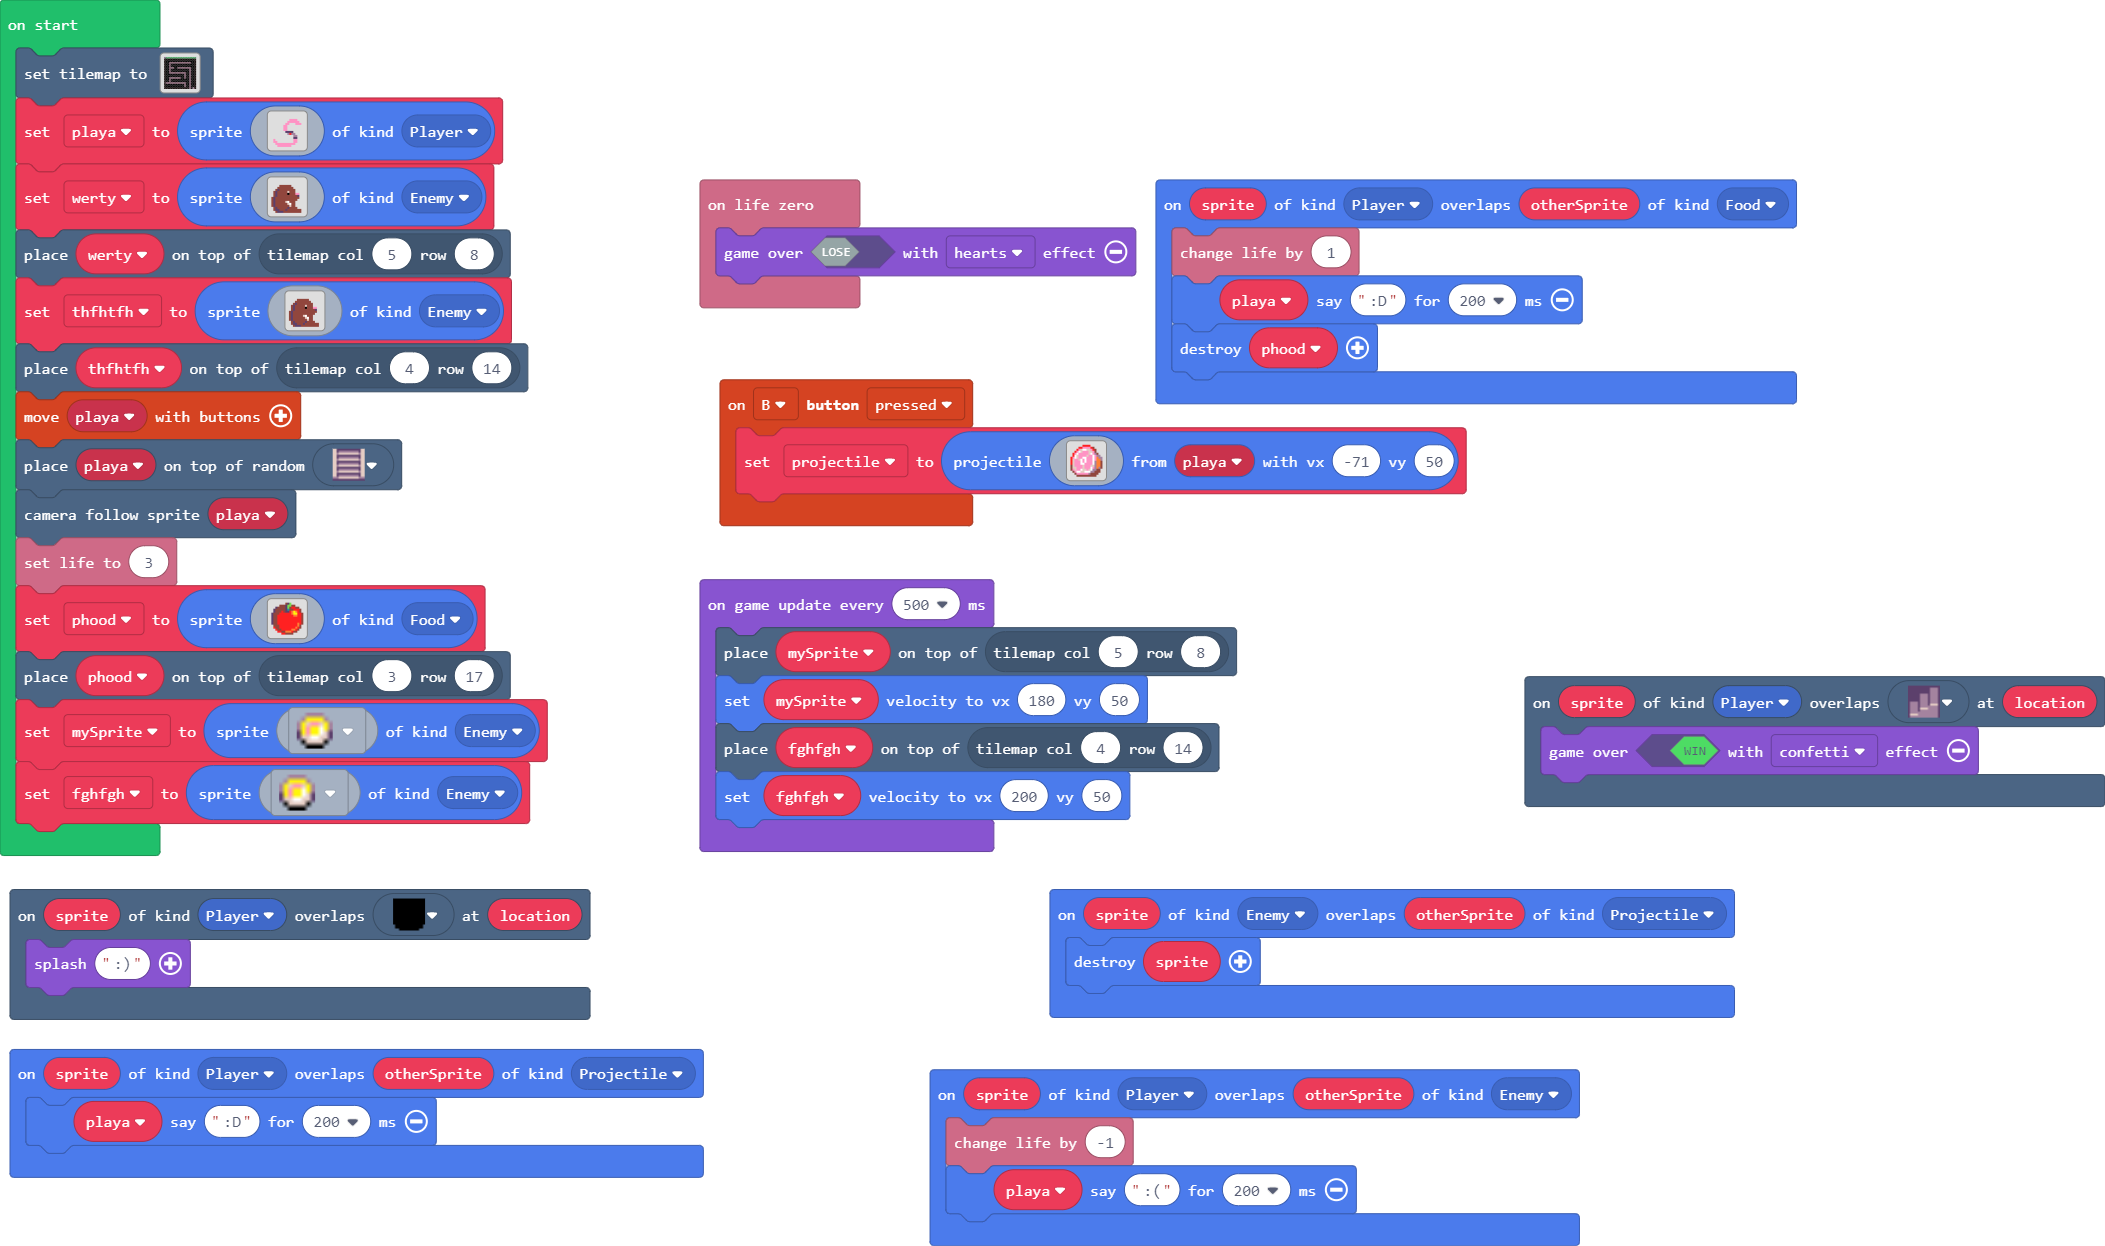
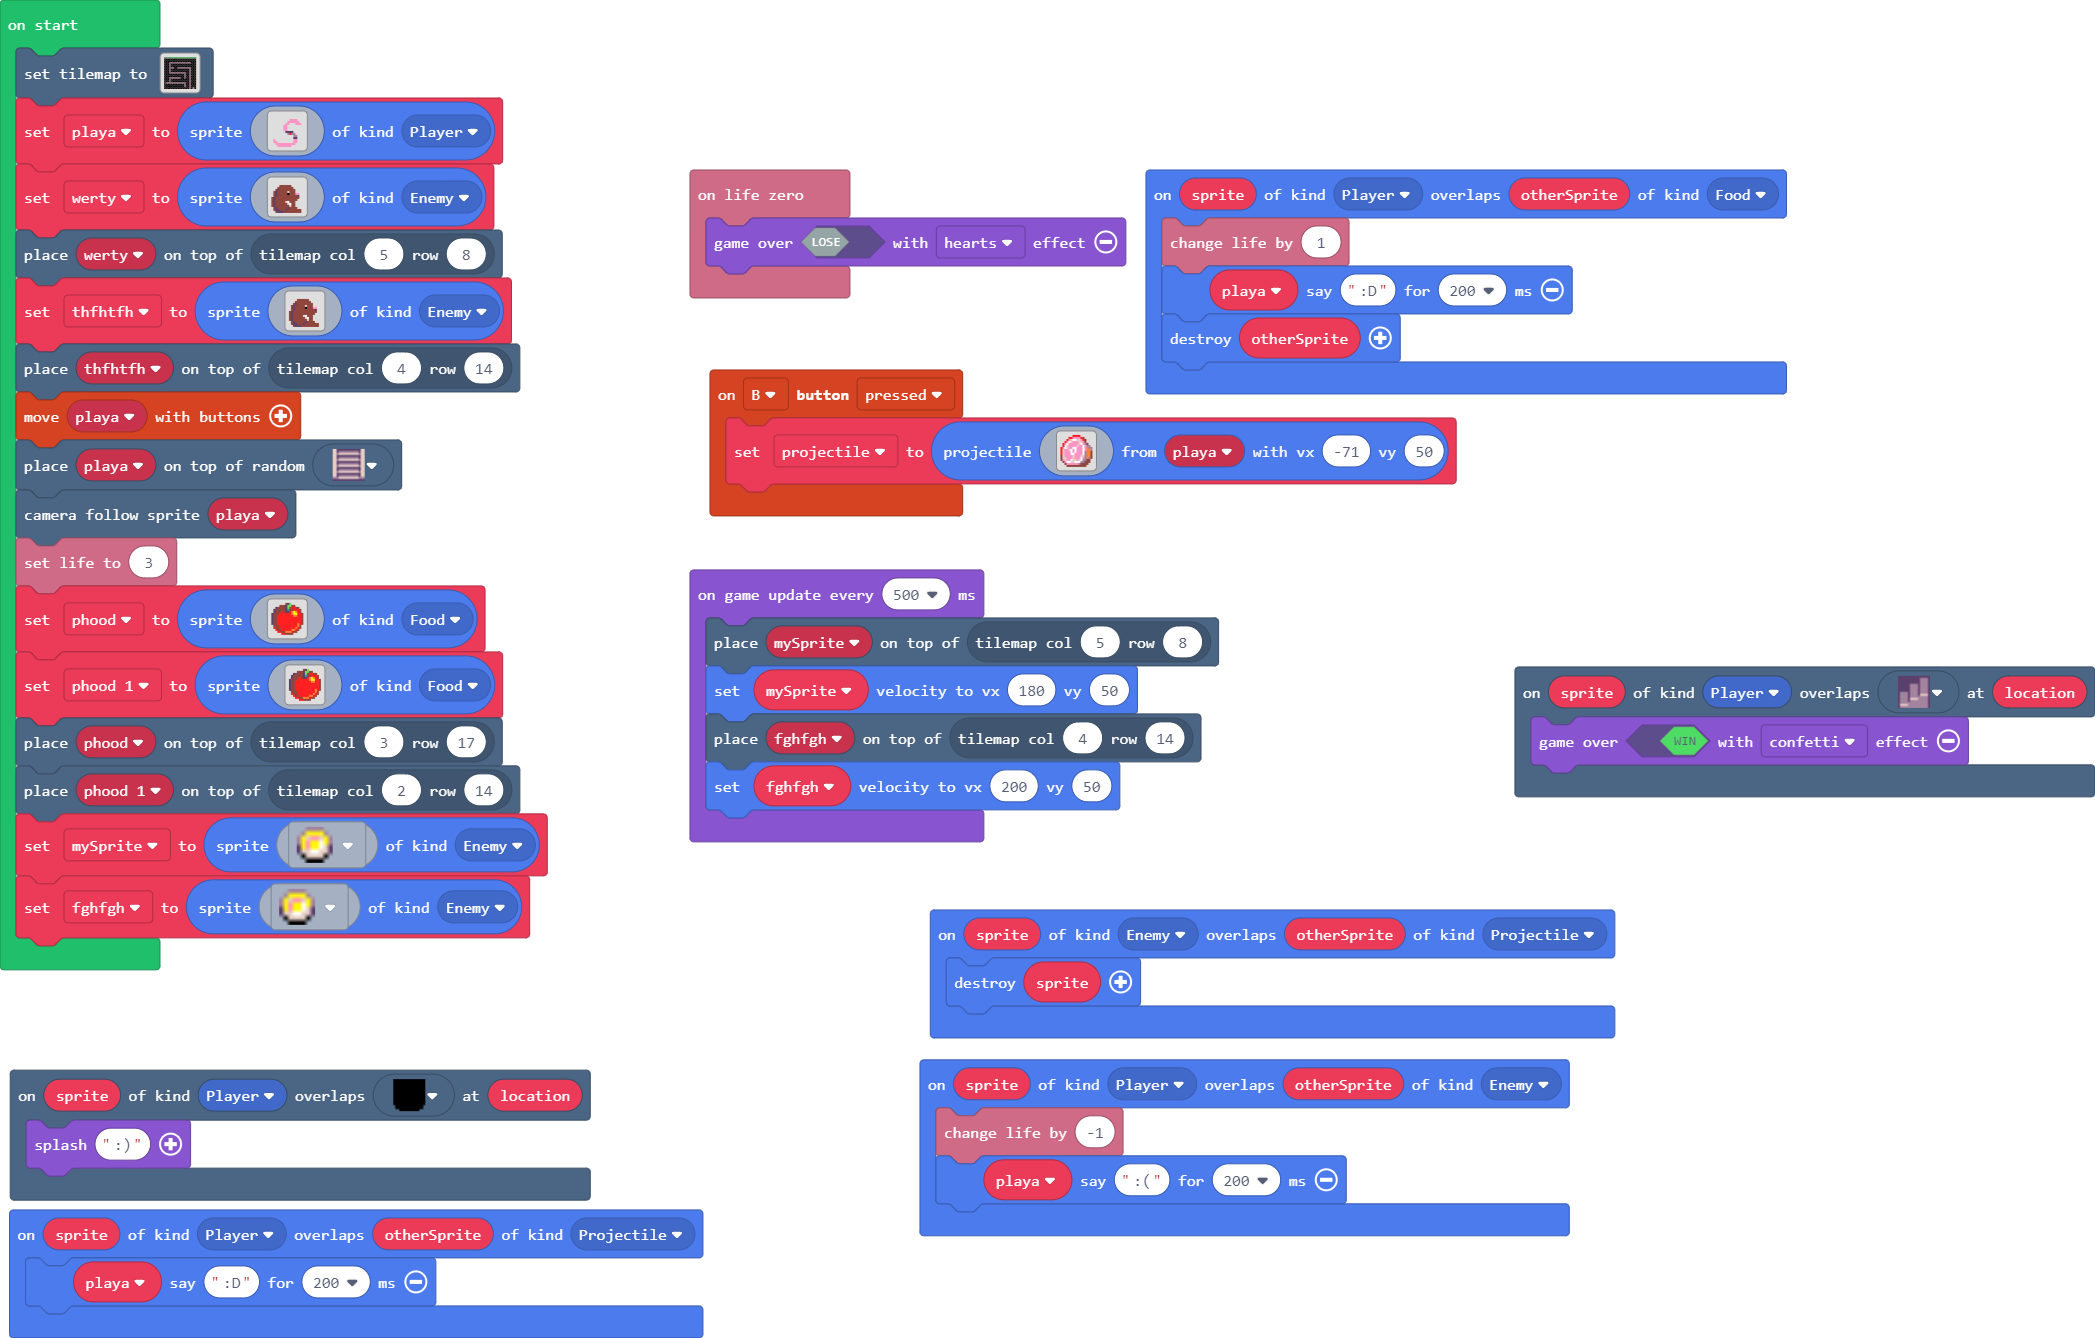
jghjg

diff --git a/main.ts b/main.ts
@@ -45,7 +45,7 @@ e 3 d 3 3 1 d d 3 d 1 b b e e .
 sprites.onOverlap(SpriteKind.Player, SpriteKind.Food, function (sprite, otherSprite) {
     info.changeLifeBy(1)
     playa.say(":D", 200)
-    phood.destroy()
+    otherSprite.destroy()
 })
 scene.onOverlapTile(SpriteKind.Player, sprites.dungeon.stairLarge, function (sprite, location) {
     game.over(true, effects.confetti)
@@ -64,7 +64,6 @@ info.onLifeZero(function () {
     game.over(false, effects.hearts)
 })
 let projectile: Sprite = null
-let phood: Sprite = null
 let playa: Sprite = null
 tiles.setTilemap(tiles.createTilemap(
[1 lines of base64/hex data omitted]
@@ -152,7 +151,25 @@ controller.moveSprite(playa)
 tiles.placeOnRandomTile(playa, sprites.dungeon.stairNorth)
 scene.cameraFollowSprite(playa)
 info.setLife(3)
-phood = sprites.create(img`
+let phood = sprites.create(img`
+. . . . . . . e c 7 . . . . . . 
+. . . . e e e c 7 7 e e . . . . 
+. . c e e e e c 7 e 2 2 e e . . 
+. c e e e e e c 6 e e 2 2 2 e . 
+. c e e e 2 e c c 2 4 5 4 2 e . 
+c e e e 2 2 2 2 2 2 4 5 5 2 2 e 
+c e e 2 2 2 2 2 2 2 2 4 4 2 2 e 
+c e e 2 2 2 2 2 2 2 2 2 2 2 2 e 
+c e e 2 2 2 2 2 2 2 2 2 2 2 2 e 
+c e e 2 2 2 2 2 2 2 2 2 2 2 2 e 
+c e e 2 2 2 2 2 2 2 2 2 2 4 2 e 
+. e e e 2 2 2 2 2 2 2 2 2 4 e . 
+. 2 e e 2 2 2 2 2 2 2 2 4 2 e . 
+. . 2 e e 2 2 2 2 2 4 4 2 e . . 
+. . . 2 2 e e 4 4 4 2 e e . . . 
+. . . . . 2 2 e e e e . . . . . 
+`, SpriteKind.Food)
+let phood_1 = sprites.create(img`
 . . . . . . . e c 7 . . . . . . 
 . . . . e e e c 7 7 e e . . . . 
 . . c e e e e c 7 e 2 2 e e . . 
@@ -171,6 +188,7 @@ c e e 2 2 2 2 2 2 2 2 2 2 4 2 e
 . . . . . 2 2 e e e e . . . . . 
 `, SpriteKind.Food)
 tiles.placeOnTile(phood, tiles.getTileLocation(3, 17))
+tiles.placeOnTile(phood_1, tiles.getTileLocation(2, 14))
 let mySprite = sprites.create(sprites.builtin.coin0, SpriteKind.Enemy)
 let fghfgh = sprites.create(sprites.builtin.coin0, SpriteKind.Enemy)
 game.onUpdateInterval(500, function () {
